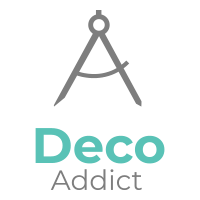
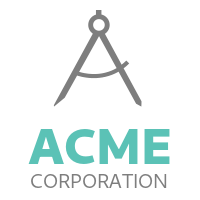
Merge pull request #38309 from odoo/tmp.16.0
Syncing from upstream odoo/odoo (tmp.16.0)

Pull request: Syncing from upstream odoo/odoo (tmp.16.0)
bt_gitbot

Changed region(s): [[0.15, 0.63, 0.87, 0.96], [0.24, 0.93, 0.27, 0.96]]

diff --git a/addons/web/static/tests/legacy/control_panel/control_panel_tests.js b/addons/web/static/tests/legacy/control_panel/control_panel_tests.js
@@ -55,7 +55,7 @@ odoo.define('web.control_panel_tests', function (require) {
                 env: {
                     session: {
                         async rpc() {
-                            return [[10, "Deco Addict"]];
+                            return [[10, "Acme Corporation"]];
                         },
                     },
                 },
@@ -65,8 +65,8 @@ odoo.define('web.control_panel_tests', function (require) {
             assert.deepEqual(
                 cpHelpers.getFacetTexts(controlPanel).map(t => t.replace(/\s/g, "")),
                 [
-                    "BarDecoAddict",
-                    "BarOpDecoAddict",
+                    "BarAcmeCorporation",
+                    "BarOpAcmeCorporation",
                     "Foofoo",
                     "FooOpfoo_op",
                     "SelecRed"

diff --git a/addons/point_of_sale/static/tests/tours/point_of_sale.js b/addons/point_of_sale/static/tests/tours/point_of_sale.js
@@ -98,8 +98,8 @@ odoo.define('point_of_sale.tour.pricelist', function (require) {
         content: "open partner list",
         trigger: "button.set-partner",
     }, {
-        content: "select Deco Addict",
-        trigger: ".partner-line:contains('Deco Addict')",
+        content: "select Acme Corporation",
+        trigger: ".partner-line:contains('Acme Corporation')",
     }, {
         content: "click pricelist button",
         trigger: ".control-button.o_pricelist_button",

diff --git a/addons/mass_mailing/static/tests/mass_mailing_favourite_filter_tests.js b/addons/mass_mailing/static/tests/mass_mailing_favourite_filter_tests.js
@@ -237,7 +237,7 @@ QUnit.module('favorite filter widget', (hooks) => {
             },
             records: [
                 {id: 1, name: 'Azure Interior'},
-                {id: 2, name: 'Deco Addict'},
+                {id: 2, name: 'Acme Corporation'},
                 {id: 3, name: 'Marc Demo'},
             ]
         };

diff --git a/addons/account/wizard/account_tour_upload_bill.py b/addons/account/wizard/account_tour_upload_bill.py
@@ -17,7 +17,7 @@ class AccountTourUploadBill(models.TransientModel):
 
     selection = fields.Selection(
         selection=lambda self: self._selection_values(),
-        default="sample"
+        default=lambda self: 'sample' if self.env.ref('base.res_partner_2', raise_if_not_found=False) else 'upload'
     )
 
     preview_invoice = fields.Html(
@@ -50,7 +50,9 @@ class AccountTourUploadBill(models.TransientModel):
         journal_alias = self.env['account.journal'] \
             .search([('type', '=', 'purchase'), ('company_id', '=', self.env.company.id)], limit=1)
 
-        values = [('sample', _('Try a sample vendor bill')), ('upload', _('Upload your own bill'))]
+        # We don't want people putting demo data in their database if they didn't launch it in demo mode
+        values = [('sample', _('Try a sample vendor bill'))] if self.env.ref('base.res_partner_2', raise_if_not_found=False) else []
+        values.append(('upload', _('Upload your own bill')))
         if journal_alias.alias_name and journal_alias.alias_domain:
             values.append(('email', _('Or send a bill to %s@%s', journal_alias.alias_name, journal_alias.alias_domain)))
         return values
@@ -78,12 +80,7 @@ class AccountTourUploadBill(models.TransientModel):
             return purchase_journal.with_context(default_journal_id=purchase_journal.id, default_move_type='in_invoice').create_document_from_attachment(attachment_ids=self.attachment_ids.ids)
         elif self.selection == 'sample':
             invoice_date = fields.Date.today() - timedelta(days=12)
-            partner = self.env['res.partner'].search([('name', '=', 'Deco Addict')], limit=1)
-            if not partner:
-                partner = self.env['res.partner'].create({
-                    'name': 'Deco Addict',
-                    'is_company': True,
-                })
+            partner = self.env.ref('base.res_partner_2')
             bill = self.env['account.move'].create({
                 'move_type': 'in_invoice',
                 'partner_id': partner.id,

diff --git a/odoo/addons/base/tests/test_expression.py b/odoo/addons/base/tests/test_expression.py
@@ -818,14 +818,14 @@ class TestExpression(SavepointCaseWithUserDemo):
 
         # indirect search via m2o
         Partner = self.env['res.partner']
-        deco_addict = self._search(Partner, [('name', '=', 'Pepper Street')])
+        acme_corp = self._search(Partner, [('name', '=', 'Pepper Street')])
 
         not_be = self._search(Partner, [('country_id', '!=', 'Belgium')])
-        self.assertNotIn(deco_addict, not_be)
+        self.assertNotIn(acme_corp, not_be)
 
         Partner = Partner.with_context(lang='fr_FR')
         not_be = self._search(Partner, [('country_id', '!=', 'Belgique')])
-        self.assertNotIn(deco_addict, not_be)
+        self.assertNotIn(acme_corp, not_be)
 
     def test_or_with_implicit_and(self):
         # Check that when using expression.OR on a list of domains with at least one

diff --git a/addons/stock/tests/test_packing_neg.py b/addons/stock/tests/test_packing_neg.py
@@ -8,8 +8,8 @@ class TestPackingNeg(TransactionCase):
 
     def test_packing_neg(self):
         res_partner_2 = self.env['res.partner'].create({
-            'name': 'Deco Addict',
-            'email': '[email redacted]',
+            'name': 'Acme Corporation',
+            'email': '[email redacted]',
         })
 
         res_partner_4 = self.env['res.partner'].create({

diff --git a/addons/point_of_sale/tests/test_frontend.py b/addons/point_of_sale/tests/test_frontend.py
@@ -50,7 +50,7 @@ class TestPointOfSaleHttpCommon(AccountTestInvoicingHttpCommon):
         })
 
         env['res.partner'].create({
-            'name': 'Deco Addict',
+            'name': 'Acme Corporation',
         })
 
         env['res.partner'].create([{

diff --git a/addons/stock/tests/test_multicompany.py b/addons/stock/tests/test_multicompany.py
@@ -519,7 +519,7 @@ class TestMultiCompany(TransactionCase):
         supplier_location = self.env.ref('stock.stock_location_suppliers')
         intercom_location = self.env.ref('stock.stock_location_inter_wh')
         intercom_location.write({'active': True})
-        partner = self.env['res.partner'].create({'name': 'Deco Addict'})
+        partner = self.env['res.partner'].create({'name': 'Acme Corporation'})
         self.warehouse_a.resupply_wh_ids = [(6, 0, [self.warehouse_b.id])]
         resupply_route = self.env['stock.route'].search([('supplier_wh_id', '=', self.warehouse_b.id),
                                                                   ('supplied_wh_id', '=', self.warehouse_a.id)])

diff --git a/addons/stock/tests/test_warehouse.py b/addons/stock/tests/test_warehouse.py
@@ -12,7 +12,7 @@ class TestWarehouse(TestStockCommon):
     @classmethod
     def setUpClass(cls):
         super().setUpClass()
-        cls.partner = cls.env['res.partner'].create({'name': 'Deco Addict'})
+        cls.partner = cls.env['res.partner'].create({'name': 'Acme Corporation'})
 
     def test_inventory_product(self):
         self.product_1.type = 'product'

diff --git a/addons/stock/tests/test_wise_operator.py b/addons/stock/tests/test_wise_operator.py
@@ -17,7 +17,7 @@ class TestWiseOperator(TransactionCase):
             'uom_po_id': self.ref('uom.product_uom_unit'),
         })
 
-        self.partner = self.env['res.partner'].create({'name': 'Deco Addict'})
+        self.partner = self.env['res.partner'].create({'name': 'Acme Corporation'})
 
         warehouse = self.env['stock.warehouse'].search([('company_id', '=', self.env.company.id)], limit=1)
         self.shelf2 = self.env['stock.location'].create({

diff --git a/odoo/addons/base/tests/common.py b/odoo/addons/base/tests/common.py
@@ -182,7 +182,7 @@ class SavepointCaseWithUserDemo(TransactionCase):
                     'name': 'Austin Kennedy', # Tom Ruiz
                 })],
             }, {
-                'name': 'Pepper Street', # 'Deco Addict',
+                'name': 'Pepper Street',  # 'Acme Corporation',
                 'state_id': cls.env.ref('base.state_us_2').id,
                 'child_ids': [Command.create({
                     'name': 'Liam King', # 'Douglas Fletcher',